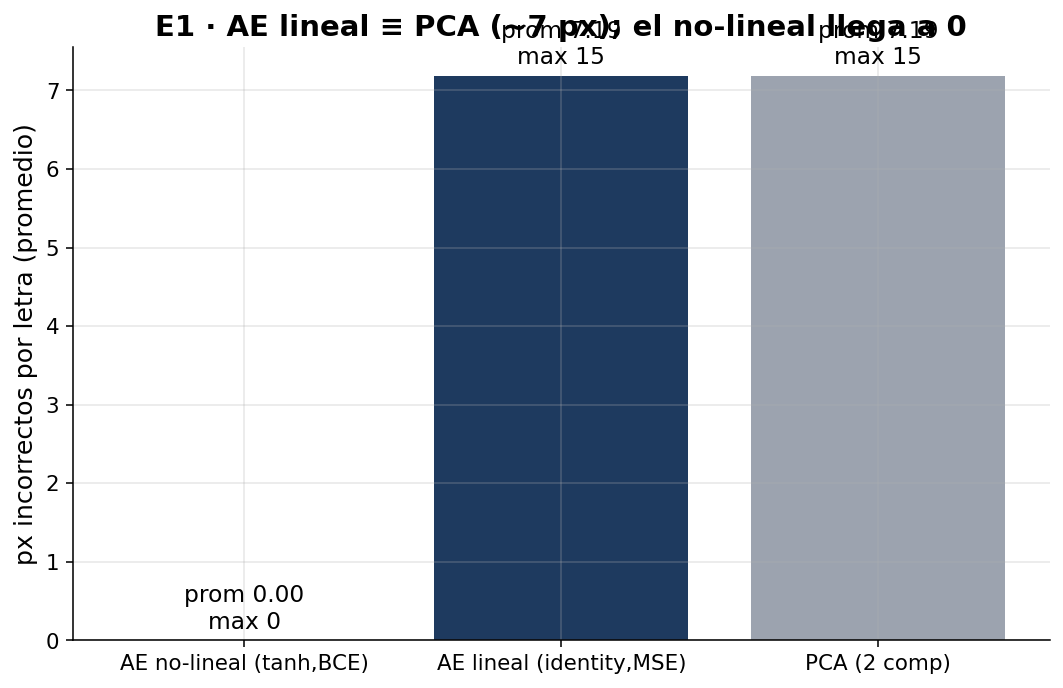
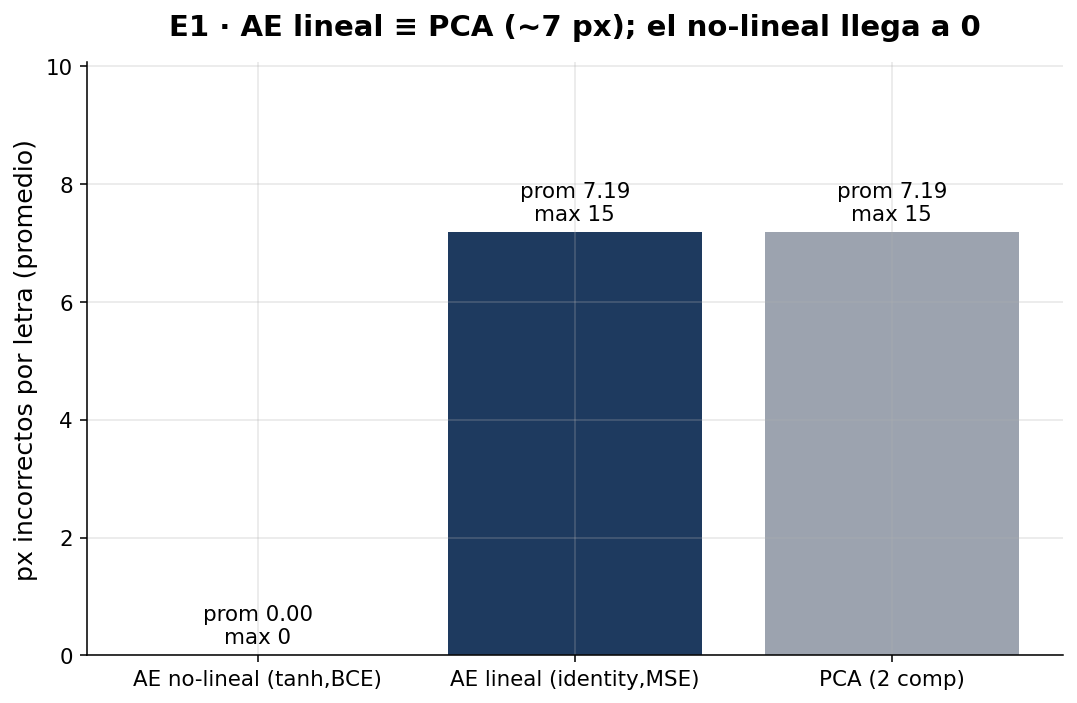
fix(presentacion): fig_e1 sin solape titulo/etiquetas; slides de 1 imagen; saca repo de conclusiones

diff --git a/presentacion/index.html b/presentacion/index.html
@@ -9,7 +9,7 @@
   <style>
     :root { --azul:#1E3A5F; --naranja:#C2410C; }
     .reveal h1,.reveal h2,.reveal h3 { color:var(--azul); text-transform:none; letter-spacing:normal; }
-    .reveal section img { border:none; box-shadow:0 3px 14px rgba(0,0,0,.18); max-height:60vh; background:#fff; }
+    .reveal section img { border:none; box-shadow:0 3px 14px rgba(0,0,0,.18); max-height:62vh; max-width:92%; background:#fff; }
     .reveal .row { display:flex; gap:2.5%; justify-content:center; align-items:center; }
     .reveal .row img { max-height:54vh; }
     .reveal ul { font-size:0.66em; width:90%; margin:0.3em auto; }
@@ -107,16 +107,22 @@
     <aside class="notes">Adam adapta el paso por parámetro y escapa de la meseta donde SGD se estanca.</aside>
   </section>
 
-  <!-- 10 · E5/E6 (opcional) -->
+  <!-- 10a · E5 (opcional) -->
   <section>
-    <span class="tag">E5 · E6 — opcionales</span>
-    <h2>Learning rate y activación</h2>
-    <div class="row">
-      <img src="../ej1a_autoencoder/figs/fig_e5_lr.png" alt="E5">
-      <img src="../ej1a_autoencoder/figs/fig_e6_activation.png" alt="E6">
-    </div>
-    <ul><li>lr=0.3 <span class="accent">no aprende</span> (33 px); las 3 activaciones llegan a 0 px pero a distinta velocidad.</li></ul>
-    <aside class="notes">Slides opcionales (recortar si falta tiempo). E5 muestra una config que falla. E6: todas convergen, difieren en velocidad.</aside>
+    <span class="tag">E5 — opcional</span>
+    <h2>Learning rate</h2>
+    <img src="../ej1a_autoencoder/figs/fig_e5_lr.png" alt="E5">
+    <ul><li>Muy bajo = lento; muy alto (<span class="accent">0.3 no aprende</span>, 33 px); 0.01 es el justo.</li></ul>
+    <aside class="notes">Opcional. Muestra una config que falla: el lr alto queda atascado arriba.</aside>
+  </section>
+
+  <!-- 10b · E6 (opcional) -->
+  <section>
+    <span class="tag">E6 — opcional</span>
+    <h2>Activación oculta</h2>
+    <img src="../ej1a_autoencoder/figs/fig_e6_activation.png" alt="E6">
+    <ul><li>tanh / relu / sigmoid llegan <span class="accent">todas a 0 px</span>, difieren en velocidad de convergencia.</li></ul>
+    <aside class="notes">Opcional. Por eso es una figura de curvas: el resultado final es el mismo, cambia la velocidad.</aside>
   </section>
 
   <!-- 11 · E7 -->
@@ -146,16 +152,22 @@
     <aside class="notes">Cada punto es una letra en el latente. El zoom de la derecha despeja el centro apiñado.</aside>
   </section>
 
-  <!-- 14 · E8 generación -->
+  <!-- 14a · E8 generación grilla -->
   <section>
     <span class="tag">E8 · CAMPEÓN</span>
-    <h2>Generación de letras nuevas (req. 1a-4)</h2>
-    <div class="row">
-      <img src="../ej1a_autoencoder/figs/fig_e8c_generation_grid.png" alt="E8c">
-      <img src="../ej1a_autoencoder/figs/fig_e8d_interpolation.png" alt="E8d">
-    </div>
-    <ul><li>Barriendo el latente salen glifos que no están en el set; interpolación a→o.</li></ul>
-    <aside class="notes">Los puntos intermedios decodifican letras inventadas. El latente es continuo y navegable.</aside>
+    <h2>Generación: barrido del latente (req. 1a-4)</h2>
+    <img src="../ej1a_autoencoder/figs/fig_e8c_generation_grid.png" alt="E8c">
+    <ul><li>Cada celda es un punto del latente decodificado → salen glifos que <span class="accent">no están en el set</span>.</li></ul>
+    <aside class="notes">El latente es continuo: decodificar puntos intermedios da letras nuevas.</aside>
+  </section>
+
+  <!-- 14b · E8 interpolación -->
+  <section>
+    <span class="tag">E8 · CAMPEÓN</span>
+    <h2>Interpolación en el latente: a → o</h2>
+    <img src="../ej1a_autoencoder/figs/fig_e8d_interpolation.png" alt="E8d">
+    <ul><li>Los intermedios son <span class="accent">letras inventadas</span> (no están en el dataset).</li></ul>
+    <aside class="notes">Caminamos en línea recta del punto 'a' al 'o'; el decoder genera transiciones suaves.</aside>
   </section>
 
   <!-- 15 · 1b setup config -->
@@ -192,16 +204,22 @@
     <aside class="notes">No hay un único "mejor": depende del ruido esperado. 15 % es buen compromiso.</aside>
   </section>
 
-  <!-- 19 · campeón + E11 -->
+  <!-- 19a · campeón -->
   <section>
     <span class="tag">1b · CAMPEÓN</span>
     <h2>Resultado del denoiser</h2>
-    <div class="row">
-      <img src="../ej1b_denoising/figs/fig_e_champion.png" alt="champion">
-      <img src="../ej1b_denoising/figs/fig_e11_triplets.png" alt="E11">
-    </div>
-    <ul><li><span class="accent">81 % de letras con ≤1px a 15 % de ruido</span> (92 % a 10 %). Tripletes: limpio / ruidoso / recuperado.</li></ul>
-    <aside class="notes">El campeón reforzado a 15000 épocas. Los tripletes son la prueba visual; se degrada recién a 30 %.</aside>
+    <img src="../ej1b_denoising/figs/fig_e_champion.png" alt="champion">
+    <ul><li><span class="accent">81 % de letras con ≤1px a 15 % de ruido</span> (92 % a 10 %, 64 % a 20 %).</li></ul>
+    <aside class="notes">El campeón reforzado a 15000 épocas, cuello 10.</aside>
+  </section>
+
+  <!-- 19b · E11 tripletes -->
+  <section>
+    <span class="tag">E11</span>
+    <h2>Denoising: limpio / ruidoso / recuperado</h2>
+    <img src="../ej1b_denoising/figs/fig_e11_triplets.png" alt="E11">
+    <ul><li>Prueba visual: recupera bien a 10–20 %, se degrada recién a 30 %.</li></ul>
+    <aside class="notes">Cada bloque: original arriba, versión con ruido en el medio, recuperado abajo.</aside>
   </section>
 
   <!-- 20 · VAE setup config -->
@@ -290,7 +308,6 @@
       <li><strong>1a:</strong> no-linealidad + 2D + BCE + Adam → compresión perfecta (0 px); PCA no puede.</li>
       <li><strong>1b:</strong> limpiar ruido necesita más cuello, y el ruido de train es un trade-off.</li>
       <li><strong>VAE:</strong> el término KL convierte un compresor en un generador (latente ~N(0,I)).</li>
-      <li class="sub">Todo numpy from scratch, semillas fijas, reproducible. Repo: github.com/ariasnico/sia-tp5-autoencoders</li>
     </ul>
     <aside class="notes">Cerrar con la frase por parte. Preguntas de defensa preparadas en DEFENSA.md.</aside>
   </section>